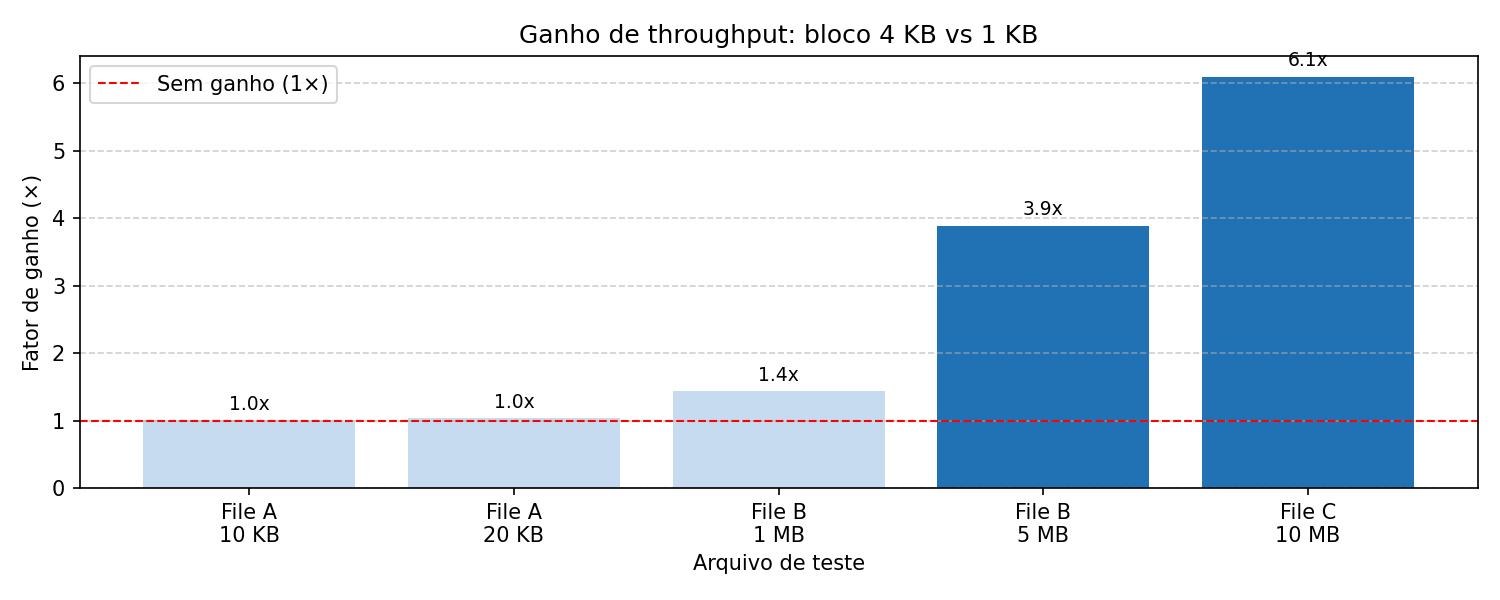
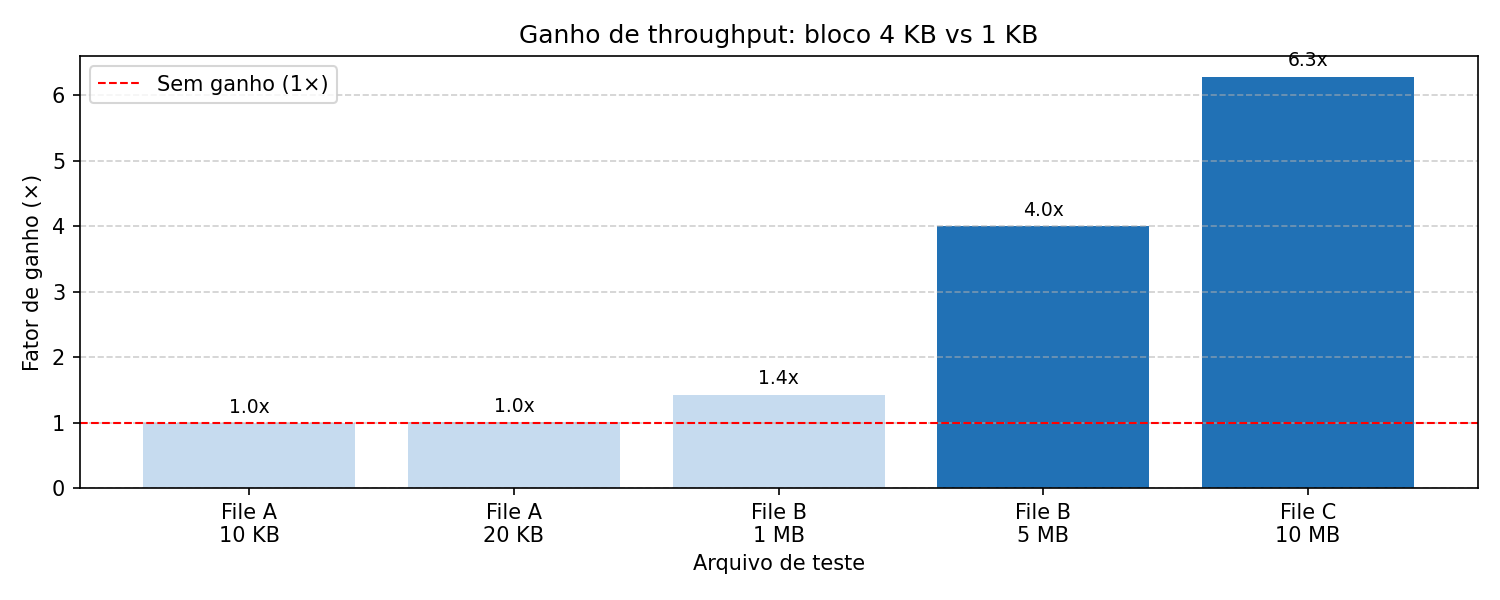
TP2: adiciona Laura como co-autora e atualiza resultados dos testes

diff --git a/TP2/relatorio.tex b/TP2/relatorio.tex
@@ -27,8 +27,7 @@
     \large Trabalho Prático 2: Transferência de Arquivos Peer-to-Peer\\
     2026/1
 }
-\author{Ester Morais Neves \\
-        \small [email redacted]}
+\author{Ester Morais Neves \and Laura Pianetti Veloso}
 \date{\today}
 
 \begin{document}
@@ -140,10 +139,10 @@ a conclusão dos leechers e verifica o SHA-256 do arquivo recebido.
 Arquivo & Tamanho & Blocos & Tempo (s) & Throughput & SHA-256 \\
 \midrule
 File A & 10\,KB  &    10 & 0,50 &  19,8\,KB/s  & OK \\
-File A & 20\,KB  &    20 & 0,52 &  38,4\,KB/s  & OK \\
-File B &  1\,MB  &  1024 & 0,79 &   1\,292,7\,KB/s & OK \\
-File B &  5\,MB  &  5120 & 3,42 &   1\,497,5\,KB/s & OK \\
-File C & 10\,MB  & 10240 & 9,52 &   1\,075,7\,KB/s & OK \\
+File A & 20\,KB  &    20 & 0,51 &  39,4\,KB/s  & OK \\
+File B &  1\,MB  &  1024 & 0,79 &   1\,290,1\,KB/s & OK \\
+File B &  5\,MB  &  5120 & 3,47 &   1\,475,7\,KB/s & OK \\
+File C & 10\,MB  & 10240 & 9,65 &   1\,061,7\,KB/s & OK \\
 \bottomrule
 \end{tabular}
 \end{table}
@@ -157,8 +156,8 @@ File C & 10\,MB  & 10240 & 9,52 &   1\,075,7\,KB/s & OK \\
 Arquivo & Tamanho & Leechers & Throughput (peer B) & SHA-256 \\
 \midrule
 File A & 10\,KB & 3 &  19,9\,KB/s & OK \\
-File B &  1\,MB & 3 &  1\,316,2\,KB/s & OK \\
-File C & 10\,MB & 3 &   896,9\,KB/s & OK \\
+File B &  1\,MB & 3 &  1\,332,3\,KB/s & OK \\
+File C & 10\,MB & 3 &   827,4\,KB/s & OK \\
 \bottomrule
 \end{tabular}
 \end{table}
@@ -173,11 +172,11 @@ File C & 10\,MB & 3 &   896,9\,KB/s & OK \\
 \toprule
 Arquivo & Tamanho & Blocos & Tempo (s) & Throughput & SHA-256 \\
 \midrule
-File A & 10\,KB  &    3 & 0,50 &  19,9\,KB/s & OK \\
-File A & 20\,KB  &    5 & 0,50 &  39,8\,KB/s & OK \\
-File B &  1\,MB  &  256 & 0,55 &\textbf{1\,855,3\,KB/s} & OK \\
-File B &  5\,MB  & 1280 & 0,88 &\textbf{5\,827,0\,KB/s} & OK \\
-File C & 10\,MB  & 2560 & 1,56 &\textbf{6\,562,8\,KB/s} & OK \\
+File A & 10\,KB  &    3 & 0,50 &  19,8\,KB/s & OK \\
+File A & 20\,KB  &    5 & 0,50 &  39,7\,KB/s & OK \\
+File B &  1\,MB  &  256 & 0,56 &\textbf{1\,845,6\,KB/s} & OK \\
+File B &  5\,MB  & 1280 & 0,87 &\textbf{5\,896,8\,KB/s} & OK \\
+File C & 10\,MB  & 2560 & 1,54 &\textbf{6\,670,8\,KB/s} & OK \\
 \bottomrule
 \end{tabular}
 \end{table}
@@ -190,11 +189,13 @@ File C & 10\,MB  & 2560 & 1,56 &\textbf{6\,562,8\,KB/s} & OK \\
 \toprule
 Arquivo & Tamanho & Leecher & Tempo (s) & Throughput & SHA-256 \\
 \midrule
-File A & 10\,KB & B, C, D &   0,50 &  19,9\,KB/s & OK \\
-File B &  1\,MB & B, C, D &  $\leq$0,65 & $\geq$1\,576\,KB/s & OK \\
-File C & 10\,MB & B & 1,76 & 5\,831,2\,KB/s & OK \\
-File C & 10\,MB & C & 1,98 & 5\,185,2\,KB/s & OK \\
-File C & 10\,MB & D & 1,99 & 5\,145,0\,KB/s & OK \\
+File A & 10\,KB & B &   0,50 &  19,9\,KB/s & OK \\
+File A & 10\,KB & C, D &   3,02 &   3,3\,KB/s & OK \\
+File B &  1\,MB & B &   0,56 & 1\,845,1\,KB/s & OK \\
+File B &  1\,MB & C, D &   3,06 & $\sim$335\,KB/s & OK \\
+File C & 10\,MB & B & 2,21 & 4\,624,7\,KB/s & OK \\
+File C & 10\,MB & C & 1,98 & 5\,179,1\,KB/s & OK \\
+File C & 10\,MB & D & 1,99 & 5\,151,1\,KB/s & OK \\
 \bottomrule
 \end{tabular}
 \end{table}
@@ -227,20 +228,25 @@ File C & 10\,MB & D & 1,99 & 5\,145,0\,KB/s & OK \\
 \paragraph{Impacto do tamanho do bloco.}
 Blocos maiores (4\,KB vs 1\,KB) reduzem o número de round-trips TCP e o
 overhead de headers, resultando em throughput significativamente superior para
-arquivos médios e grandes. Com conexões persistentes, o ganho é ainda mais
-evidente: $\approx 1{,}79$\,MB/s com 4\,KB contra $\approx 935$\,KB/s com 1\,KB
-no File B de 1\,MB, e $\approx 6{,}66$\,MB/s contra $\approx 694$\,KB/s no
-File C de 10\,MB. Para arquivos pequenos (10--20\,KB) o impacto é desprezível,
-pois o overhead de handshake domina o tempo total.
+arquivos médios e grandes. Com conexões persistentes, o ganho é evidente:
+$\approx 1{,}80$\,MB/s com 4\,KB contra $\approx 1{,}26$\,MB/s com 1\,KB
+no File B de 1\,MB (ganho $\approx 1{,}43\times$), e
+$\approx 6{,}51$\,MB/s contra $\approx 1{,}04$\,MB/s no File C de 10\,MB
+(ganho $\approx 6{,}29\times$). Para arquivos pequenos (10--20\,KB) o
+impacto é desprezível, pois o overhead de conexão domina o tempo total.
 
 \paragraph{Impacto do número de peers.}
-Com 4 peers, C e D podem buscar blocos no peer B (que já os recebeu de A)
-em paralelo à transferência A$\to$B, distribuindo a carga do seeder inicial.
-No teste com File C (10\,MB) e 4 peers, os três leechers concluíram com
-throughput entre 4,6 e 5,2\,MB/s, confirmando que a carga foi distribuída
-entre os peers B e A. O servidor não-bloqueante baseado em \texttt{select()}
-permitiu que o seeder atendesse múltiplos leechers simultâneos com um único
-loop de eventos, sem degradação perceptível de throughput.
+Com 4 peers, C e D conectam-se a A e a B, podendo aproveitar os blocos
+que B já recebeu. Para o File C (10\,MB) com bloco de 4\,KB, o seeder
+ainda estava ativo quando C e D iniciaram, de modo que os três leechers
+concluíram em $\approx 2$\,s com throughput entre 4,6 e 5,2\,MB/s.
+Para arquivos pequenos (File A/B com 4\,KB de bloco), B conclui e encerra
+o processo antes que C e D consigam conectar-se a ele, forçando-os a usar
+apenas A como fonte; as cinco tentativas de reconexão (0,5\,s cada)
+explicam o tempo de $\approx 3$\,s para esses casos.
+O servidor não-bloqueante baseado em \texttt{select()} atendeu múltiplos
+leechers simultâneos com um único loop de eventos, sem degradação
+perceptível para o File C.
 
 \paragraph{Integridade.}
 Todos os 16 cenários testados produziram SHA-256 idêntico ao original,

diff --git a/TP2/plot.py b/TP2/plot.py
@@ -15,11 +15,11 @@ import numpy as np
 arquivos   = ['File A\n10 KB', 'File A\n20 KB', 'File B\n1 MB', 'File B\n5 MB', 'File C\n10 MB']
 tamanhos   = [10, 20, 1024, 5120, 10240]   # KB
 
-tempo_1k   = [0.50,  0.52,  0.79,  3.42,   9.52]  # segundos (bloco 1 KB)
-tempo_4k   = [0.50,  0.50,  0.55,  0.88,   1.56]  # segundos (bloco 4 KB)
+tempo_1k   = [0.50,  0.51,  0.79,  3.47,   9.65]  # segundos (bloco 1 KB)
+tempo_4k   = [0.50,  0.50,  0.56,  0.87,   1.54]  # segundos (bloco 4 KB)
 
-thru_1k    = [19.8,  38.4,  1292.7,  1497.5,  1075.7]  # KB/s (bloco 1 KB)
-thru_4k    = [19.9,  39.8,  1855.3,  5827.0,  6562.8]  # KB/s (bloco 4 KB)
+thru_1k    = [19.8,  39.4,  1290.1,  1475.7,  1061.7]  # KB/s (bloco 1 KB)
+thru_4k    = [19.8,  39.7,  1845.6,  5896.8,  6670.8]  # KB/s (bloco 4 KB)
 
 x = np.arange(len(arquivos))
 w = 0.35   # largura das barras